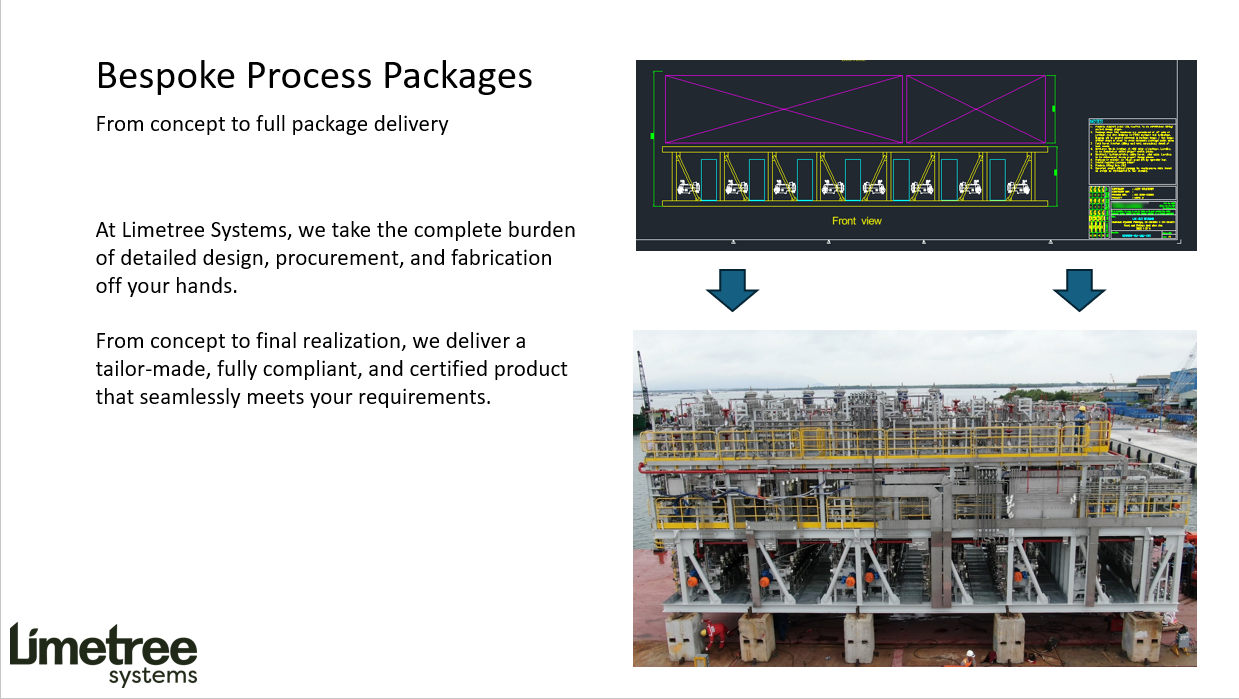
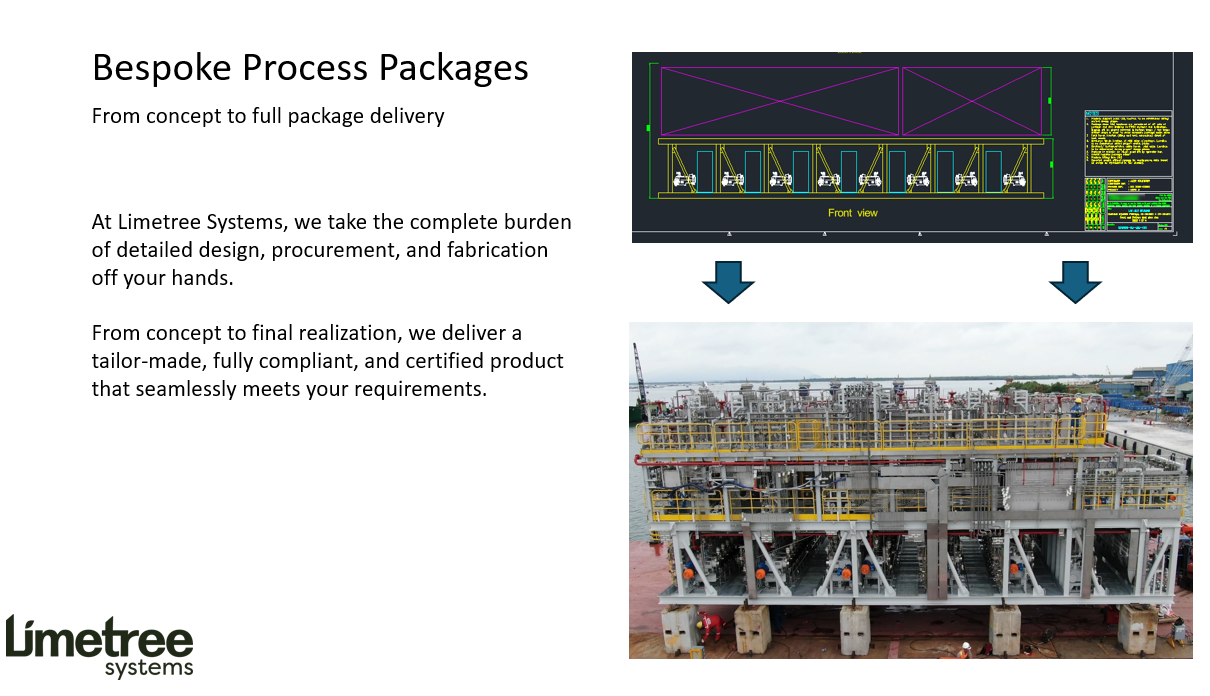
added sections

diff --git a/index.html b/index.html
@@ -81,11 +81,16 @@
             <li><a href="#hero" class="active">Home</a></li>
             <li class="dropdown"><a href="#about"><span>About us</span> <i class="bi bi-chevron-down toggle-dropdown"></i></a>
               <ul>
-                <li><a href="#management-team">Management Team</a></li>
-                <li><a href="#execution-team">Execution Team</a></li>
+                <li><a href="#About-Management-Team">Management Team</a></li>
+                <li><a href="#About-Execution-Team">Execution Team</a></li>
               </ul>
             </li>
-            <li><a href="#our-approach">Our Approach</a></li>
+            <li class="dropdown"><a href="#ourapproach"><span>Our Approach</span> <i class="bi bi-chevron-down toggle-dropdown"></i></a>
+              <ul>
+                <li><a href="#ourapproach">Bespoke Process Packages</a></li>
+                <li><a href="#ourapproach-lean-and-mean">Lean & Mean Project Execution </a></li>
+              </ul>
+            </li>
             <li><a href="#services">Design Capabilities</a></li>
             <li><a href="#portfolio">References</a></li>
             <li><a href="#faq">QA &amp; QC</a></li>
@@ -146,6 +151,8 @@
 
       </div>
 
+
+
     </section><!-- /Hero Section -->
 
     <!-- About Section -->
@@ -173,86 +180,40 @@
 
     </section><!-- /About Section -->
 
-    <!-- Our Approach Section -->
-    <section id="our-approach" class="our-approach section">
 
-      <!-- Section Title -->
-      <div class="container section-title" data-aos="fade-up">
-        <h2>Our Approach</h2>
-        <p>Necessitatibus eius consequatur ex aliquid fuga eum quidem sint consectetur velit</p>
-      </div><!-- End Section Title -->
 
-      <div class="container">
-
-        <div class="row gy-4">
-
-          <div class="col-md-6" data-aos="fade-up" data-aos-delay="100">
-            <div class="service-item d-flex position-relative h-100">
-              <i class="bi bi-briefcase icon flex-shrink-0"></i>
-              <div>
-                <h4 class="title"><a href="service-details.html" class="stretched-link">Lorem Ipsum</a></h4>
-                <p class="description">Voluptatum deleniti atque corrupti quos dolores et quas molestias excepturi sint occaecati cupiditate non provident</p>
-              </div>
-            </div>
-          </div><!-- End Service Item -->
-
-          <div class="col-md-6" data-aos="fade-up" data-aos-delay="200">
-            <div class="service-item d-flex position-relative h-100">
-              <i class="bi bi-card-checklist icon flex-shrink-0"></i>
-              <div>
-                <h4 class="title"><a href="service-details.html" class="stretched-link">Dolor Sitema</a></h4>
-                <p class="description">Minim veniam, quis nostrud exercitation ullamco laboris nisi ut aliquip ex ea commodo consequat tarad limino ata</p>
-              </div>
-            </div>
-          </div><!-- End Service Item -->
-
-          <div class="col-md-6" data-aos="fade-up" data-aos-delay="300">
-            <div class="service-item d-flex position-relative h-100">
-              <i class="bi bi-bar-chart icon flex-shrink-0"></i>
-              <div>
-                <h4 class="title"><a href="service-details.html" class="stretched-link">Sed ut perspiciatis</a></h4>
-                <p class="description">Duis aute irure dolor in reprehenderit in voluptate velit esse cillum dolore eu fugiat nulla pariatur</p>
-              </div>
-            </div>
-          </div><!-- End Service Item -->
-
-          <div class="col-md-6" data-aos="fade-up" data-aos-delay="400">
-            <div class="service-item d-flex position-relative h-100">
-              <i class="bi bi-binoculars icon flex-shrink-0"></i>
-              <div>
-                <h4 class="title"><a href="service-details.html" class="stretched-link">Magni Dolores</a></h4>
-                <p class="description">Excepteur sint occaecat cupidatat non proident, sunt in culpa qui officia deserunt mollit anim id est laborum</p>
-              </div>
-            </div>
-          </div><!-- End Service Item -->
-
-          <div class="col-md-6" data-aos="fade-up" data-aos-delay="500">
-            <div class="service-item d-flex position-relative h-100">
-              <i class="bi bi-brightness-high icon flex-shrink-0"></i>
-              <div>
-                <h4 class="title"><a href="service-details.html" class="stretched-link">Nemo Enim</a></h4>
-                <p class="description">At vero eos et accusamus et iusto odio dignissimos ducimus qui blanditiis praesentium voluptatum deleniti atque</p>
-              </div>
-            </div>
-          </div><!-- End Service Item -->
-
-          <div class="col-md-6" data-aos="fade-up" data-aos-delay="600">
-            <div class="service-item d-flex position-relative h-100">
-              <i class="bi bi-calendar4-week icon flex-shrink-0"></i>
-              <div>
-                <h4 class="title"><a href="service-details.html" class="stretched-link">Eiusmod Tempor</a></h4>
-                <p class="description">Et harum quidem rerum facilis est et expedita distinctio. Nam libero tempore, cum soluta nobis est eligendi</p>
-              </div>
-            </div>
-          </div><!-- End Service Item -->
-
-        </div>
-
+        <!-- About ManagementTeam section -->
+    <section id="About-Management-Team" class="About-Management-Team">
+      <div class="container" data-aos="fade-up" data-aos-delay="100">
+        <img src="assets/img/ManagementTeam/slide-management-team.png" class="img-fluid w-100" alt="Our Approach slide">
       </div>
+    </section><!-- /Management Team -->
 
-    </section><!-- /Services Section -->
+            <!-- About ExecutionTeam -->
+    <section id="About-Execution-Team" class="About-Execution-Team">
+      <div class="container" data-aos="fade-up" data-aos-delay="100">
+        <img src="assets/img/ExecutionTeam/slide-execution-team.png" class="img-fluid w-100" alt="Our Approach slide">
+      </div>
+    </section><!-- /Management Team -->
 
-    <!-- Clients Section -->
+
+
+    <!-- Our Approach Section -->
+    <section id="ourapproach" class="our-approach section">
+      <div class="container" data-aos="fade-up" data-aos-delay="100">
+        <img src="assets/img/OurApproach/OurAproach-Bespoke.png" class="img-fluid w-100" alt="Our Approach slide">
+      </div>
+    </section><!-- /Our Approach Section -->
+
+        <!-- Our Approach Section -->
+    <section id="ourapproach-lean-and-mean" class="our-approach section">
+      <div class="container" data-aos="fade-up" data-aos-delay="100">
+        <img src="assets/img/OurApproach/OurAproach-lean-and-mean.png" class="img-fluid w-100" alt="Our Approach slide">
+      </div>
+    </section><!-- /Our Approach Section -->
+
+
+    <!-- Clients Section --><!--
     <section id="clients" class="clients section light-background">
 
       <div class="container" data-aos="fade-up" data-aos-delay="100">
@@ -305,7 +266,7 @@
         </div>
 
       </div>
-
+    -->
     </section><!-- /Clients Section -->
 
     <!-- Portfolio Section -->
@@ -459,9 +420,9 @@
 
     </section><!-- /Portfolio Section -->
 
-    
 
-    <!-- Call To Action Section -->
+
+    <!-- Call To Action Section
     <section id="call-to-action" class="call-to-action section dark-background">
 
       <div class="container">
@@ -478,7 +439,7 @@
 
       </div>
 
-    </section><!-- /Call To Action Section -->
+    </section> /Call To Action Section -->
 
     <!-- Team Section -->
     <section id="team" class="team section">
